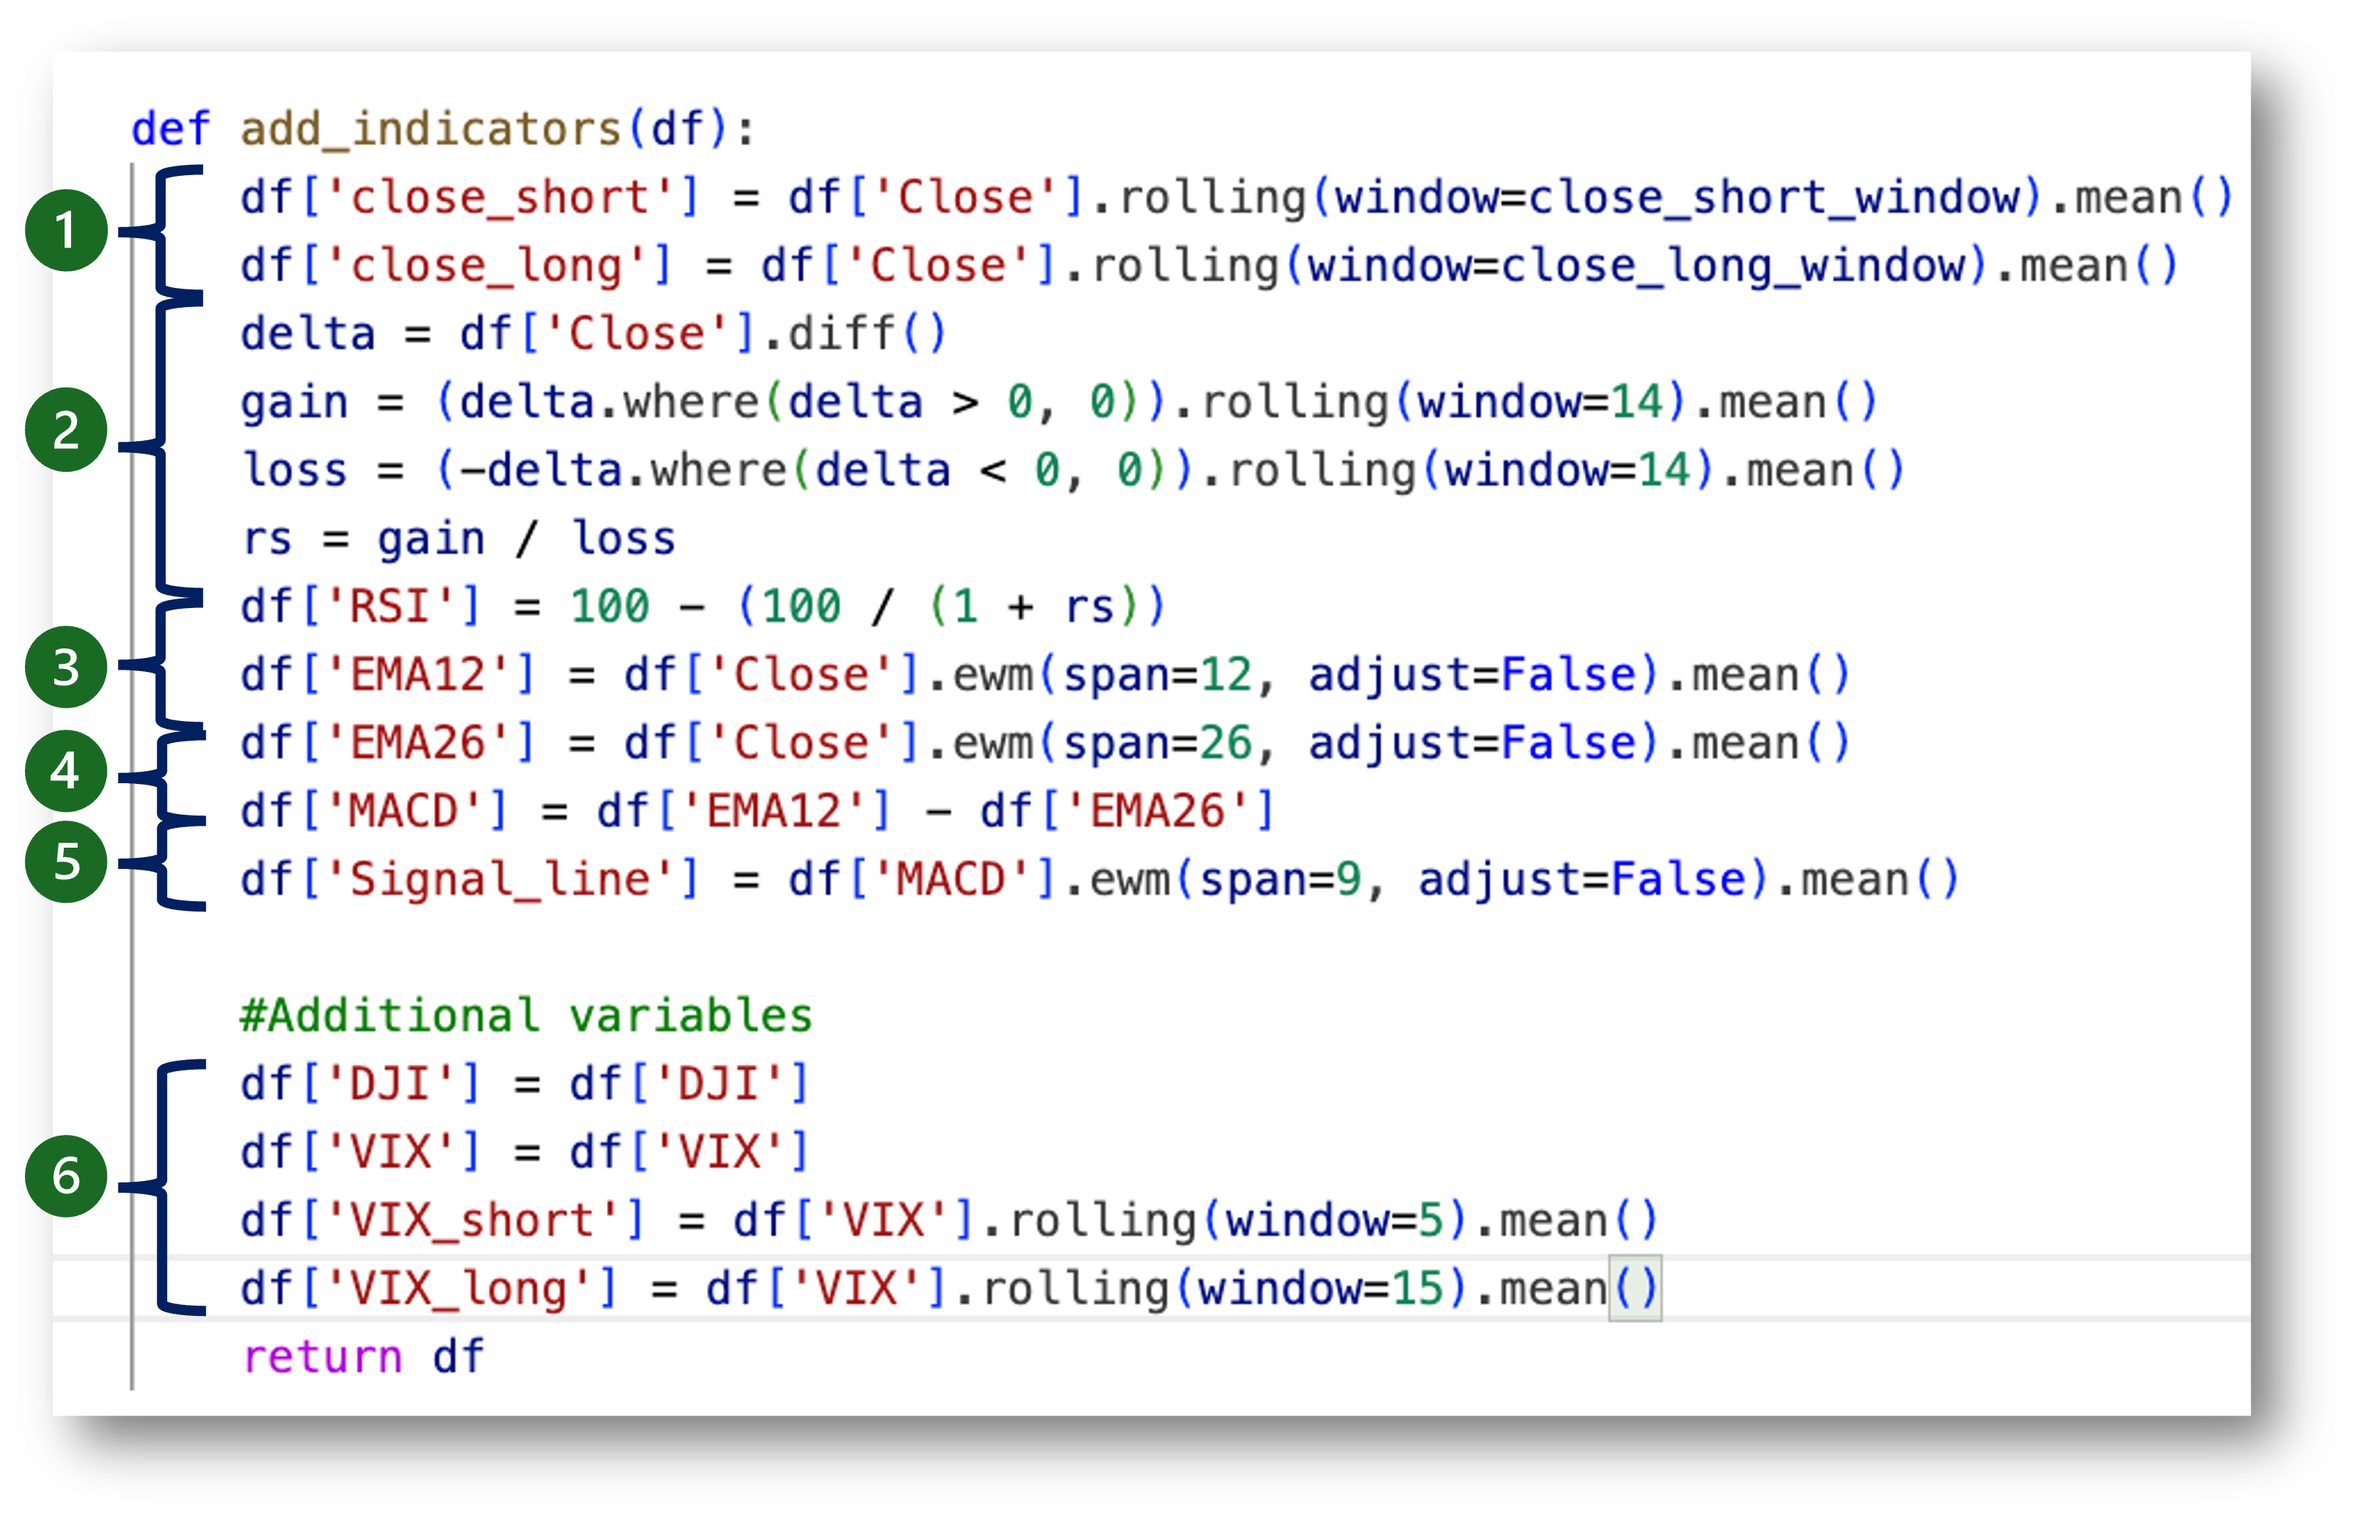
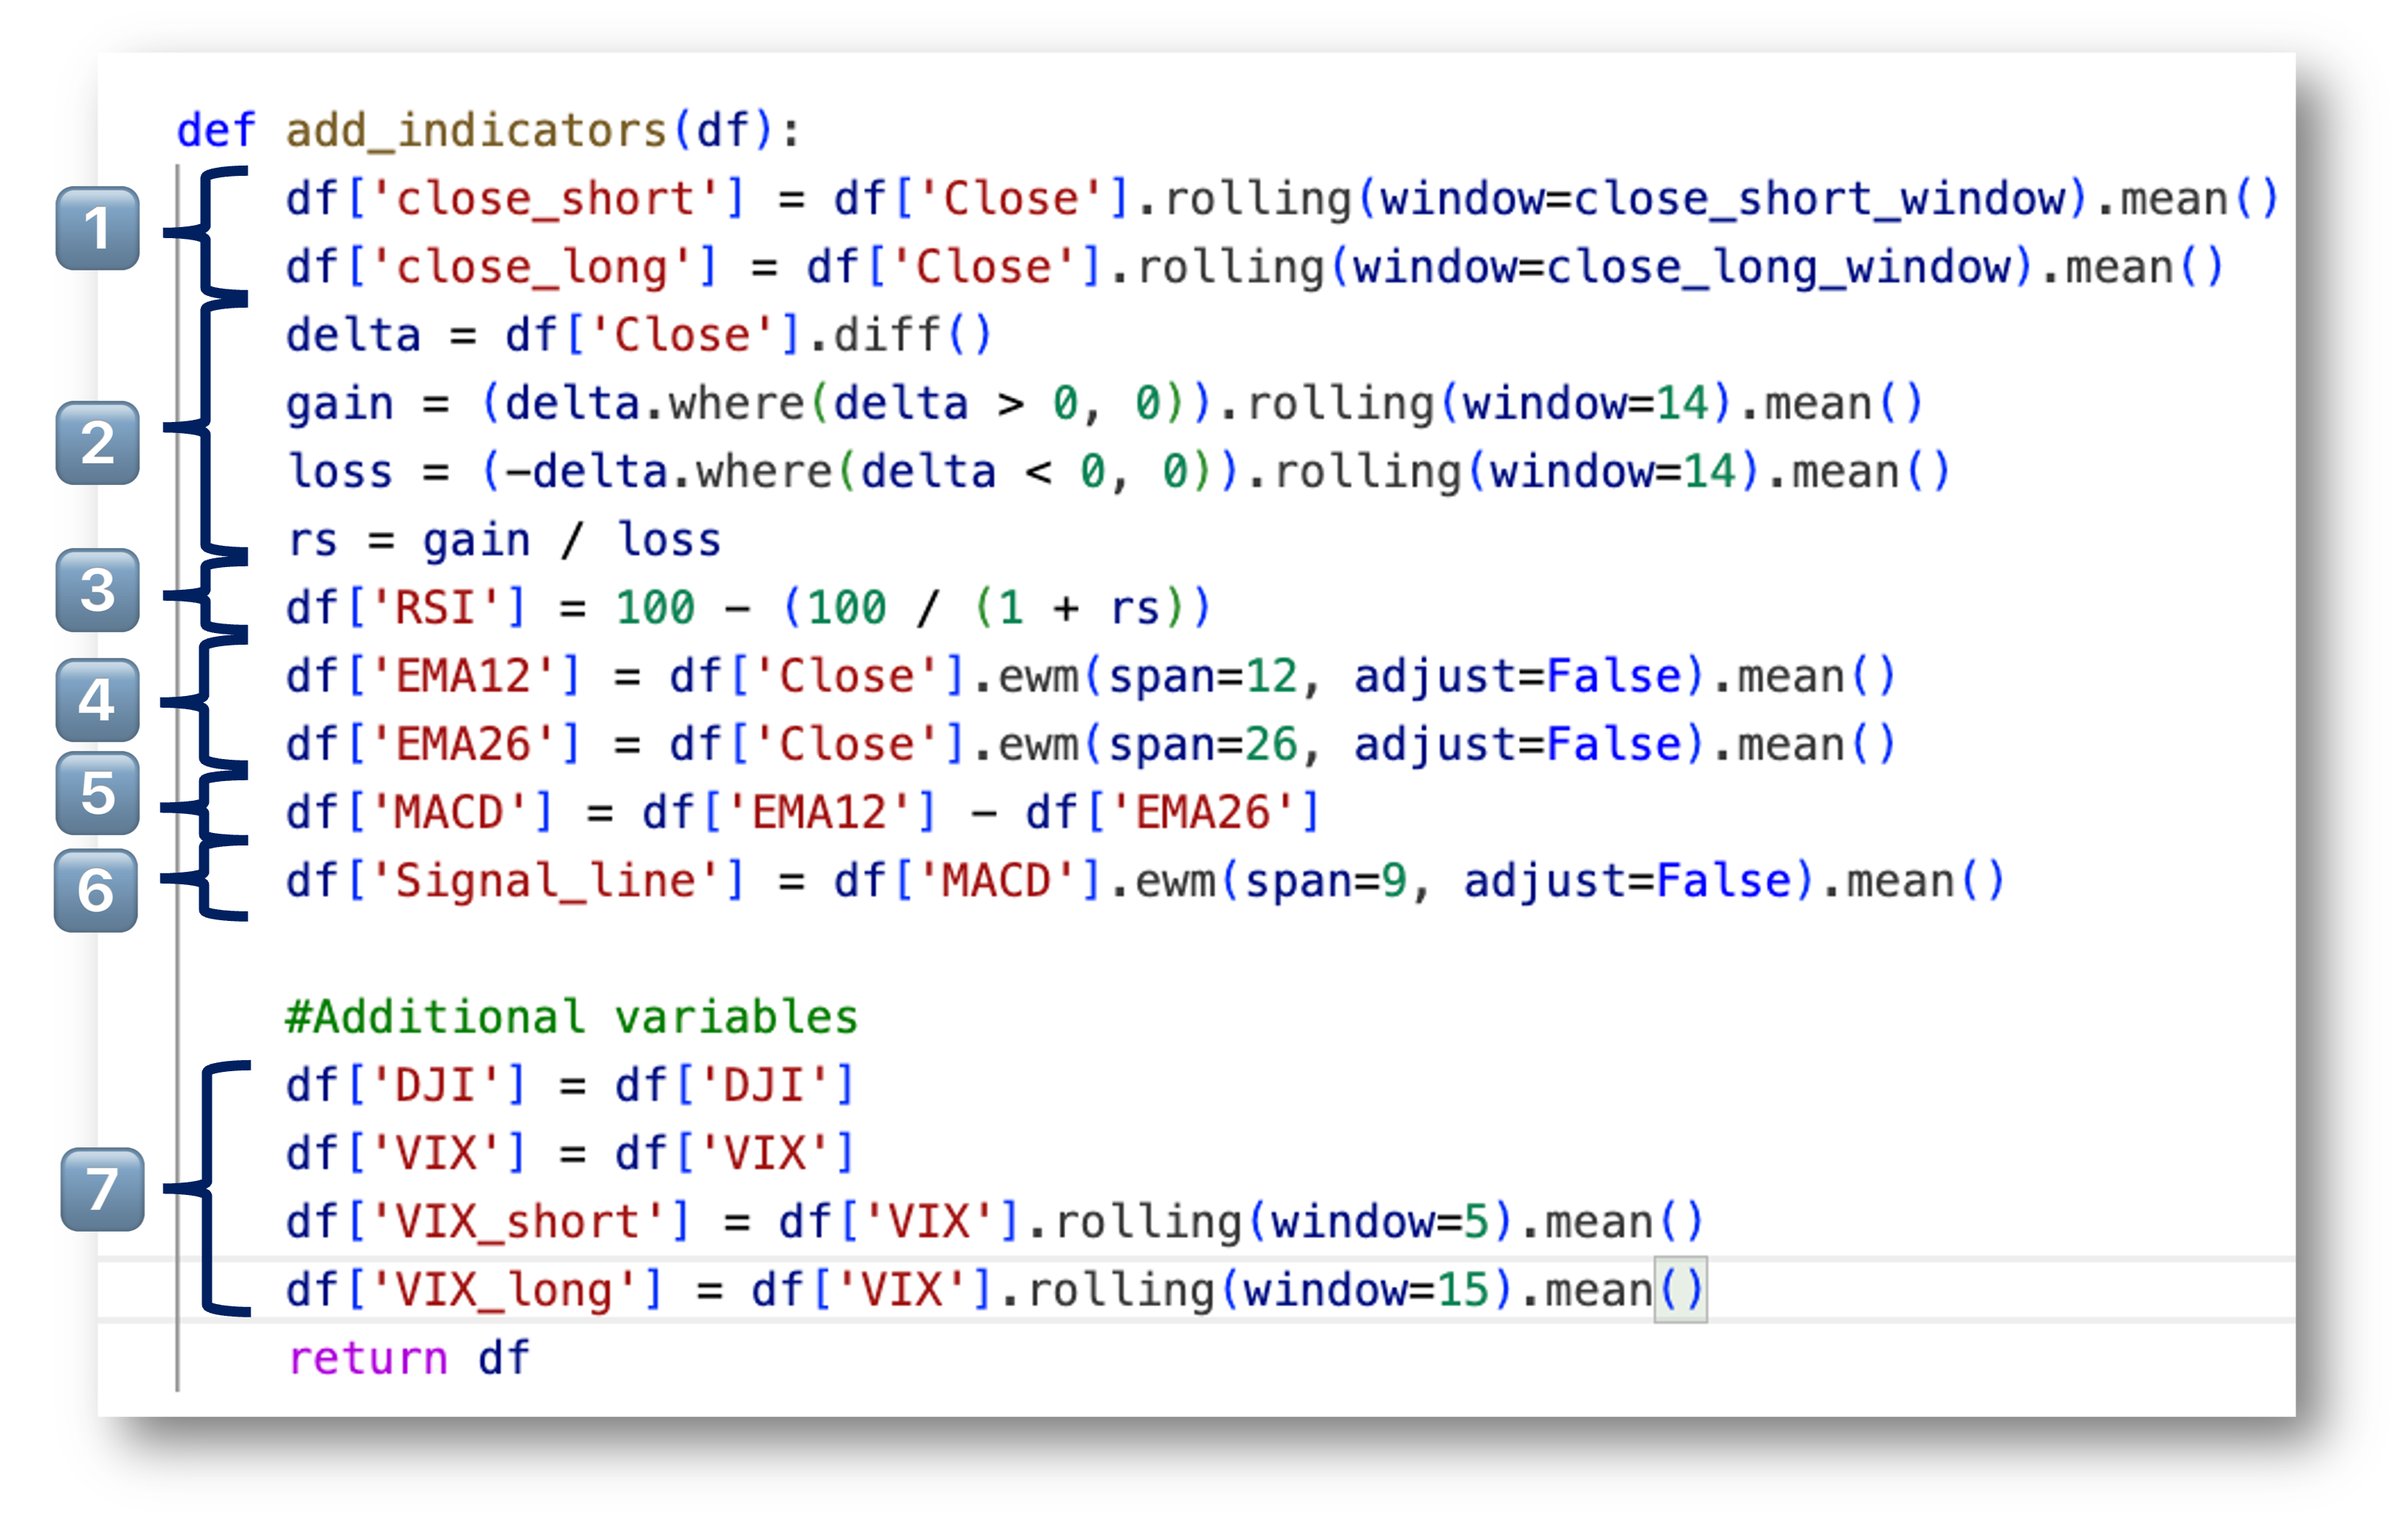
readme

Changed region(s): [[0.0, 0.0617, 0.9636, 0.6166], [0.0, 0.6474, 0.715, 0.9249], [0.0311, 0.9249, 0.0622, 0.9557]]

diff --git a/Readme.md b/Readme.md
@@ -113,13 +113,14 @@ def create_dataframe(tickerSymbol='MSFT'):
 
 ## X variables
 <img src="https://github.com/Dandata0101/mbs-Stock-singal-project/blob/main/04-readme-images/xvariable.png" alt="Home" style="width:2200;height:400;"> 
-<span style="color: green;">:one:</span> Item 1<br>
-<span style="color: green;">:two:</span> Item 2<br>
-<span style="color: green;">:three:</span> Item 3<br>
-<span style="color: green;">:four:</span> Item 4<br>
-<span style="color: green;">:five:</span> Item 5<br>
-<span style="color: green;">:six:</span> Item 6
-
+<span style="color: green;">:one:</span> **df['close_short']** & **df['close_long']**: This represents a rolling average of the closing prices.<br>
+<span style="color: green;">:two:</span> **delta**: Represents the day-to-day change in the closing price, calculated by the .diff() function which computes the difference between consecutive elements in the DataFrame. **gain** & **loss**: A series representing the gains over a 14-day rolling window. It filters the delta to consider only positive changes. **rs**: The relative strength, calculated as the average gain over the average loss over a rolling window of 14 days. 
+<br>
+<span style="color: green;">:three:</span> **df['RSI']**: The Relative Strength Index, a momentum indicator that measures the magnitude of recent price changes to evaluate overbought or oversold conditions.<br>
+<span style="color: green;">:four:</span> **df['EMA12']** and **df['EMA26']**: These are Exponential Moving Averages with spans of 12 and 26 days, respectively. EMAs give more weight to recent prices and are used to identify trends.<br>
+<span style="color: green;">:five:</span> **df['MACD']**: The Moving Average Convergence Divergence, which is calculated by subtracting the 26-day EMA from the 12-day EMA. The MACD is a trend-following momentum indicator.<br>
+<span style="color: green;">:six:</span> **df['Signal_Line']**: A 9-day EMA of the MACD values. It acts as a trigger for buy and sell signals when it crosses the MACD line.<br>
+<span style="color: green;">:seven:</span>  Volatility Index and Dow Jone index were added to account for anomalies.<br>
 
 ## Y variables
 <img src="https://github.com/Dandata0101/mbs-Stock-singal-project/blob/main/04-readme-images/yvariable.png" alt="Home" style="width:2200;height:400;"> 
